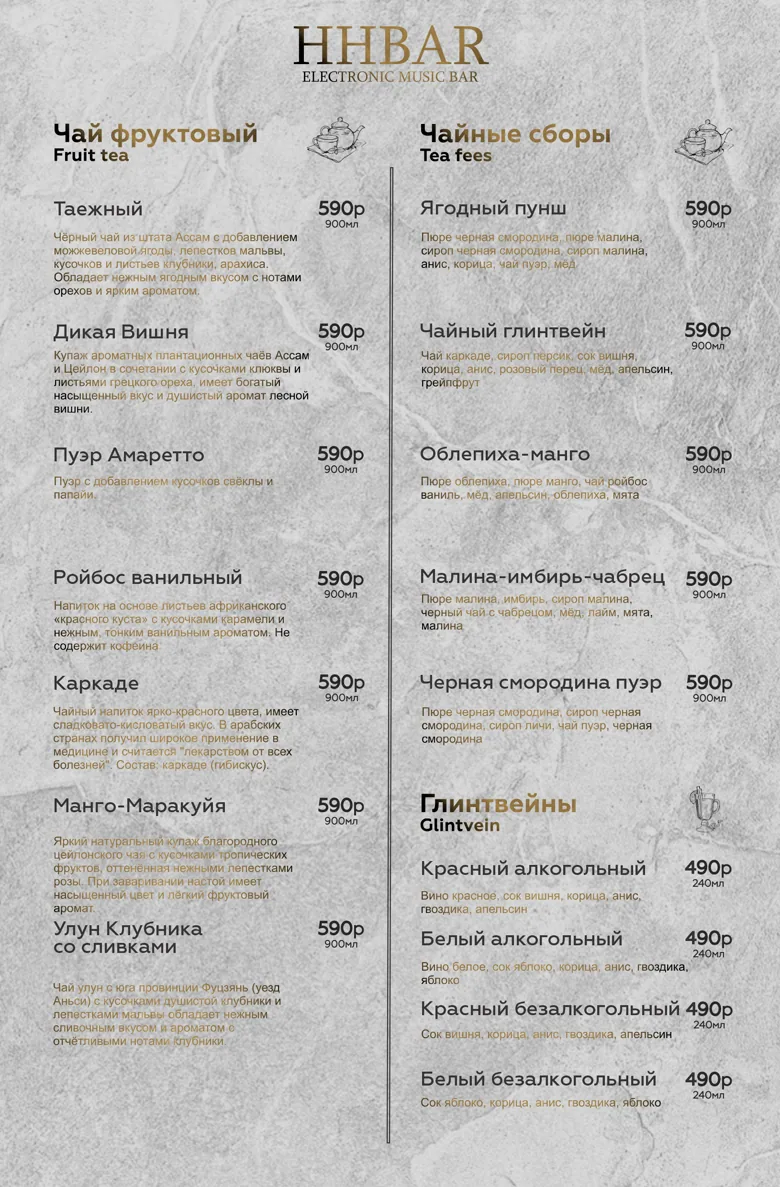
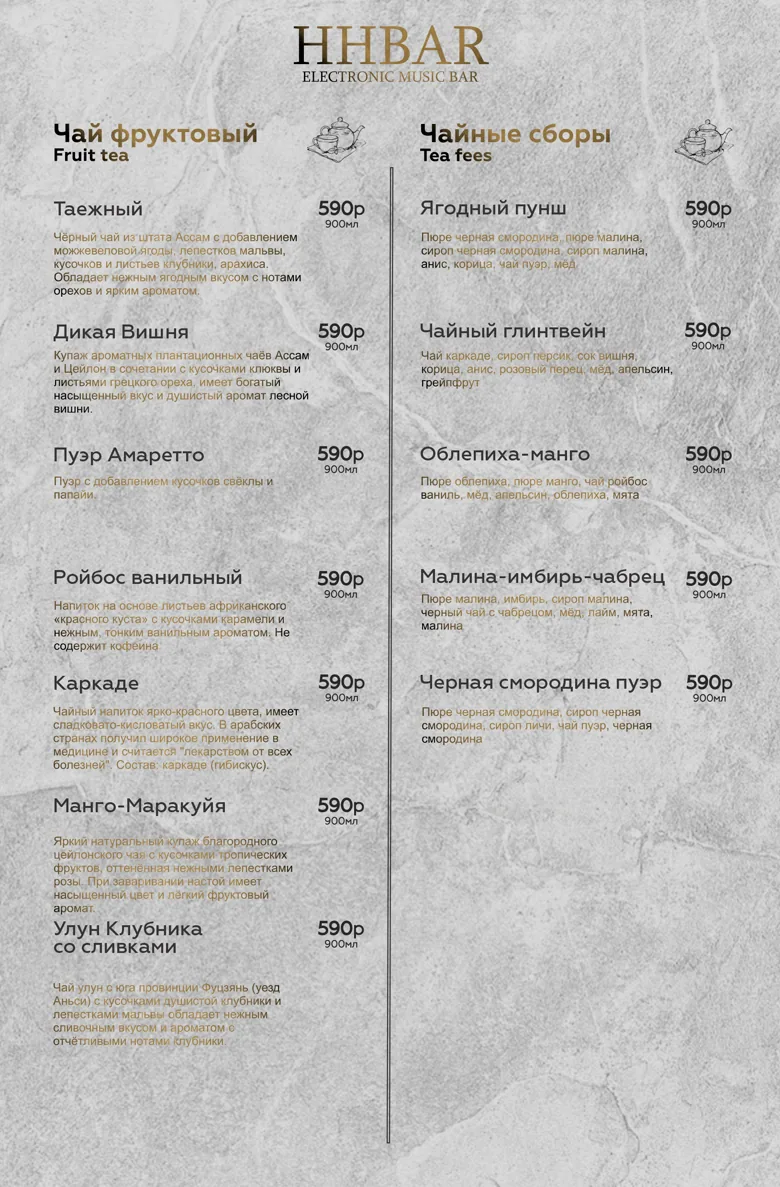
Keep only kitchen and soft drinks in HHBAR menu

diff --git a/menu.html b/menu.html
@@ -4,7 +4,7 @@
 <meta charset="UTF-8">
 <meta name="viewport" content="width=device-width, initial-scale=1.0, maximum-scale=5.0">
 <title>Меню — HHBAR Electronic Music Bar</title>
-<meta name="description" content="Меню HHBAR — кухня, напитки, барная карта и кальяны. Электронный бар в Мурманске.">
+<meta name="description" content="Меню HHBAR — кухня, лимонады, чай, кофе и другие безалкогольные напитки. Электронный бар в Мурманске.">
 <link rel="canonical" href="https://hhbar51.ru/menu.html">
 <meta name="theme-color" content="#0a0a0a">
 <meta name="yandex-metrika-id" content="">
@@ -197,7 +197,7 @@ footer { background: var(--darker); padding: 40px 0; text-align: center; color: 
 <link rel="stylesheet" href="src/styles/refresh.css">
 <style>@view-transition { navigation: none; }</style>
 <meta property="og:title" content="Меню HHBAR">
-<meta property="og:description" content="Кухня, напитки, барная карта и кальяны HHBAR в Мурманске.">
+<meta property="og:description" content="Кухня, лимонады, чай, кофе и другие безалкогольные напитки HHBAR в Мурманске.">
 <meta property="og:url" content="https://hhbar51.ru/menu.html">
 </head>
 <body>
@@ -221,7 +221,7 @@ footer { background: var(--darker); padding: 40px 0; text-align: center; color: 
 <section class="menu-hero">
     <div class="container">
         <h1>Меню HHBAR</h1>
-        <p>Кухня и барная карта</p>
+        <p>Кухня и напитки</p>
     </div>
 </section>
 
@@ -229,8 +229,6 @@ footer { background: var(--darker); padding: 40px 0; text-align: center; color: 
     <nav class="menu-jump" aria-label="Разделы меню">
         <a href="#kitchen">Кухня</a>
         <a href="#drinks">Напитки</a>
-        <a href="#bar">Барная карта</a>
-        <a href="#hookah">Кальяны</a>
     </nav>
     <section id="kitchen" aria-labelledby="kitchen-title">
         <h2 id="kitchen-title">Кухня</h2>
@@ -260,9 +258,9 @@ footer { background: var(--darker); padding: 40px 0; text-align: center; color: 
                 <strong>Чёрный и зелёный чай</strong>
                 <span>Открыть в полном размере</span>
             </a>
-            <a class="menu-sheet" href="img/menu/page-10.webp?v=2">
-                <img src="img/menu/page-10-preview.webp?v=2" width="780" height="1187" alt="" decoding="async" loading="lazy">
-                <strong>Фруктовый чай, чайные сборы и глинтвейны</strong>
+            <a class="menu-sheet" href="img/menu/page-10.webp?v=3">
+                <img src="img/menu/page-10-preview.webp?v=3" width="780" height="1187" alt="" decoding="async" loading="lazy">
+                <strong>Фруктовый чай и чайные сборы</strong>
                 <span>Открыть в полном размере</span>
             </a>
             <a class="menu-sheet" href="img/menu/page-11.webp?v=2">
@@ -273,68 +271,6 @@ footer { background: var(--darker); padding: 40px 0; text-align: center; color: 
             <a class="menu-sheet" href="img/menu/page-13.webp?v=2">
                 <img src="img/menu/page-13-preview.webp?v=2" width="780" height="1234" alt="" decoding="async" loading="lazy">
                 <strong>Лимонады</strong>
-                <span>Открыть в полном размере</span>
-            </a>
-        </div>
-    </section>
-
-    <section id="bar" aria-labelledby="bar-title">
-        <h2 id="bar-title">Барная карта</h2>
-        <div class="menu-sheets">
-            <a class="menu-sheet" href="img/menu/page-12.webp?v=2">
-                <img src="img/menu/page-12-preview.webp?v=2" width="780" height="1187" alt="" decoding="async" loading="lazy">
-                <strong>Авторские и классические коктейли</strong>
-                <span>Открыть в полном размере</span>
-            </a>
-            <a class="menu-sheet" href="img/menu/page-1.webp?v=2">
-                <img src="img/menu/page-1-preview.webp?v=2" width="780" height="1185" alt="" decoding="async" loading="lazy">
-                <strong>Вермуты, аперитивы и портвейн</strong>
-                <span>Открыть в полном размере</span>
-            </a>
-            <a class="menu-sheet" href="img/menu/page-2.webp?v=2">
-                <img src="img/menu/page-2-preview.webp?v=2" width="780" height="1194" alt="" decoding="async" loading="lazy">
-                <strong>Джин, текила и мескаль</strong>
-                <span>Открыть в полном размере</span>
-            </a>
-            <a class="menu-sheet" href="img/menu/page-3.webp?v=2">
-                <img src="img/menu/page-3-preview.webp?v=2" width="780" height="1191" alt="" decoding="async" loading="lazy">
-                <strong>Виски Шотландии и Ирландии</strong>
-                <span>Открыть в полном размере</span>
-            </a>
-            <a class="menu-sheet" href="img/menu/page-4.webp?v=2">
-                <img src="img/menu/page-4-preview.webp?v=2" width="780" height="1185" alt="" decoding="async" loading="lazy">
-                <strong>Виски Америки и Японии</strong>
-                <span>Открыть в полном размере</span>
-            </a>
-            <a class="menu-sheet" href="img/menu/page-5.webp?v=2">
-                <img src="img/menu/page-5-preview.webp?v=2" width="780" height="1185" alt="" decoding="async" loading="lazy">
-                <strong>Ром, коньяк и бренди</strong>
-                <span>Открыть в полном размере</span>
-            </a>
-            <a class="menu-sheet" href="img/menu/page-6.webp?v=2">
-                <img src="img/menu/page-6-preview.webp?v=2" width="780" height="1194" alt="" decoding="async" loading="lazy">
-                <strong>Ликёры и дижестивы</strong>
-                <span>Открыть в полном размере</span>
-            </a>
-            <a class="menu-sheet" href="img/menu/page-7.webp?v=2">
-                <img src="img/menu/page-7-preview.webp?v=2" width="780" height="1191" alt="" decoding="async" loading="lazy">
-                <strong>Игристые вина</strong>
-                <span>Открыть в полном размере</span>
-            </a>
-            <a class="menu-sheet" href="img/menu/page-8.webp?v=2">
-                <img src="img/menu/page-8-preview.webp?v=2" width="780" height="1187" alt="" decoding="async" loading="lazy">
-                <strong>Красные и белые вина</strong>
-                <span>Открыть в полном размере</span>
-            </a>
-        </div>
-    </section>
-
-    <section id="hookah" aria-labelledby="hookah-title">
-        <h2 id="hookah-title">Кальяны</h2>
-        <div class="menu-sheets">
-            <a class="menu-sheet" href="img/menu/page-17.webp">
-                <img src="img/menu/page-17-preview.webp" width="780" height="1107" alt="" decoding="async" loading="lazy">
-                <strong>Кальяны</strong>
                 <span>Открыть в полном размере</span>
             </a>
         </div>

diff --git a/index.html b/index.html
@@ -53,7 +53,7 @@
             <ul class="nav-links" id="navLinks">
                 <li><a href="#home" class="active">Главная</a></li>
                 <li><a href="#events">Афиша</a></li>
-                <li><a href="menu.html?v=20261120-2">Меню</a></li>
+                <li><a href="menu.html?v=20261120-3">Меню</a></li>
                 <li><a href="#features">О нас</a></li>
                 <li><a href="#gallery">Галерея</a></li>
                 <li><a href="#videos">Видео</a></li>
@@ -86,7 +86,7 @@
         <p class="hero-address">Кольский проспект, 44</p>
         <div class="hero-buttons">
             <a href="booking.html" class="btn">Забронировать столик</a>
-            <a href="menu.html?v=20261120-2" class="btn btn-secondary magnetic-btn">Меню</a>
+            <a href="menu.html?v=20261120-3" class="btn btn-secondary magnetic-btn">Меню</a>
             <a href="#events" class="btn btn-secondary">Афиша</a>
         </div>
     </div>
@@ -331,7 +331,7 @@
 <!-- MOBILE NAV -->
 <nav class="mobile-nav" aria-label="Быстрая навигация">
     <a href="#events"><i class="fas fa-calendar" aria-hidden="true"></i><span>Афиша</span></a>
-    <a href="menu.html?v=20261120-2"><i class="fas fa-utensils" aria-hidden="true"></i><span>Меню</span></a>
+    <a href="menu.html?v=20261120-3"><i class="fas fa-utensils" aria-hidden="true"></i><span>Меню</span></a>
     <a href="booking.html"><i class="fas fa-chair" aria-hidden="true"></i><span>Бронь</span></a>
     <a href="rent.html"><i class="fas fa-key" aria-hidden="true"></i><span>Аренда</span></a>
     <a href="#contact"><i class="fas fa-map-marker-alt" aria-hidden="true"></i><span>Как добраться</span></a>
